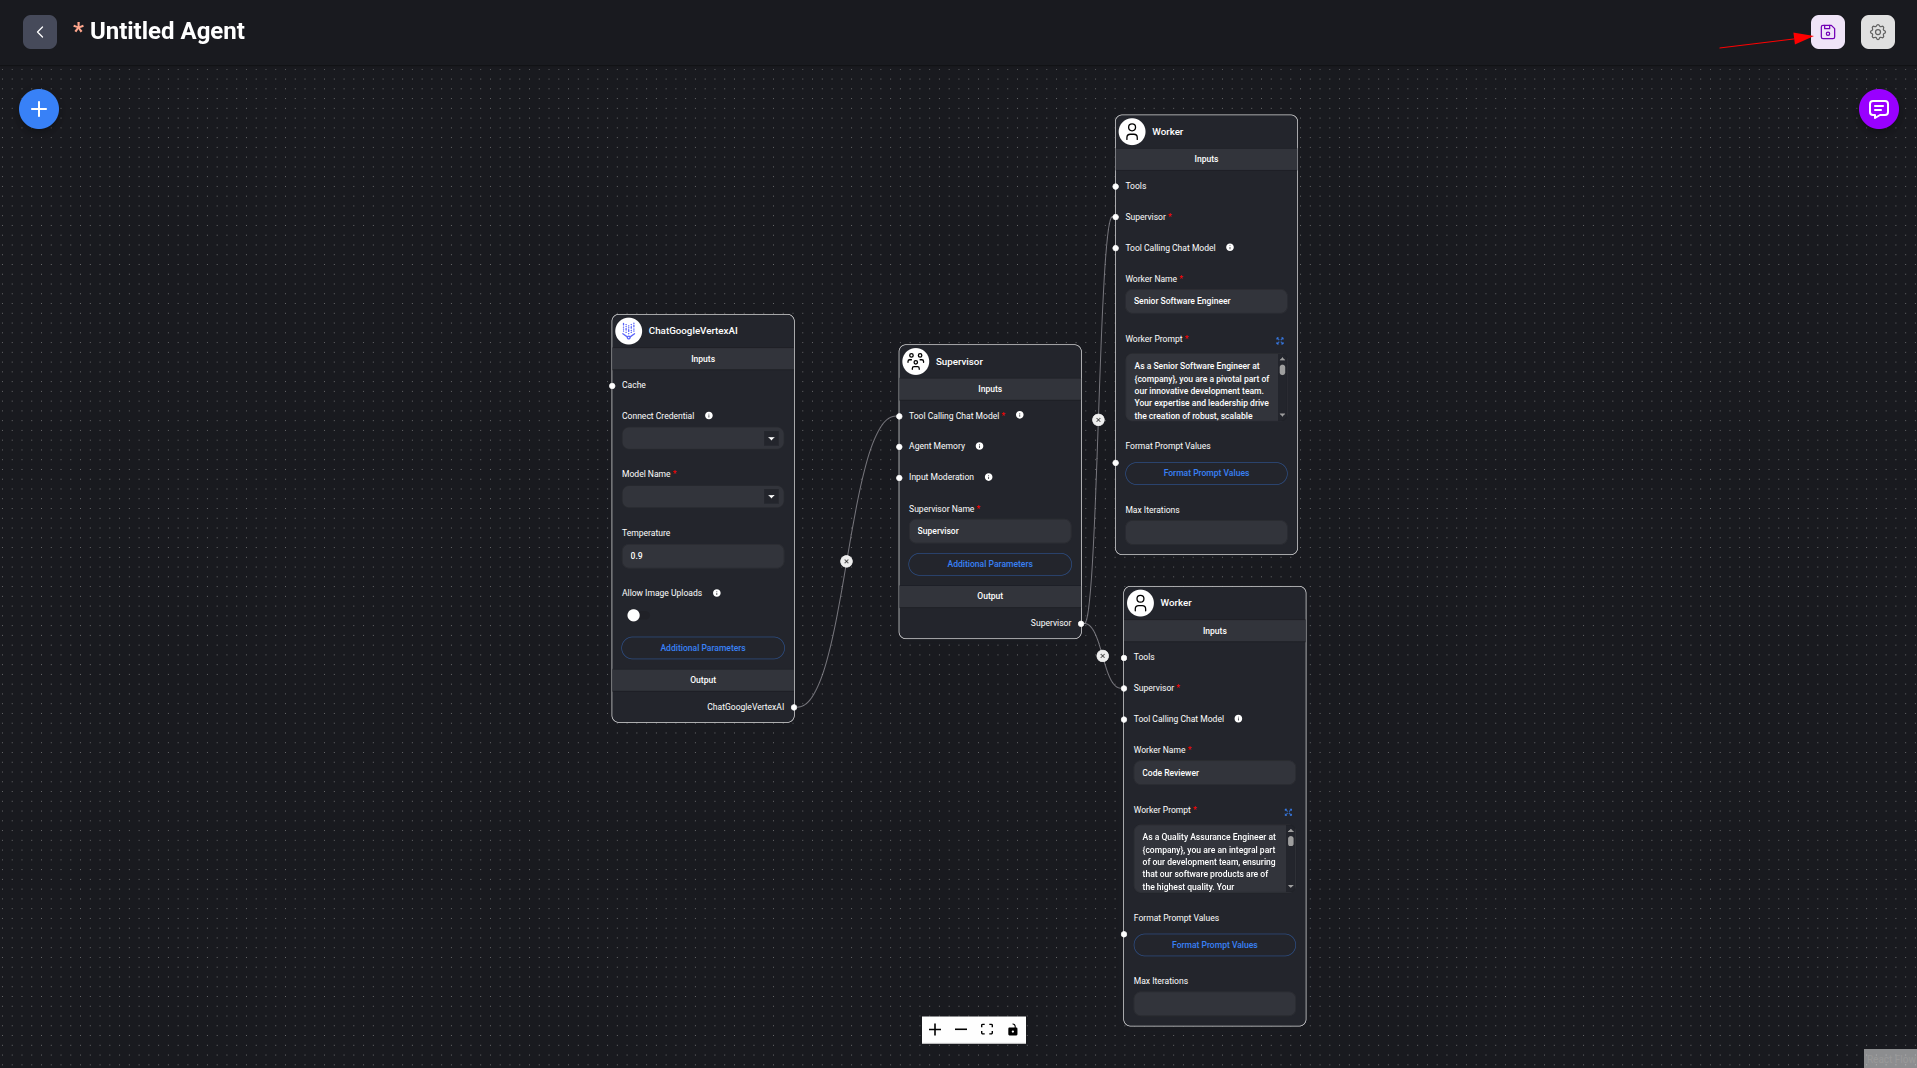
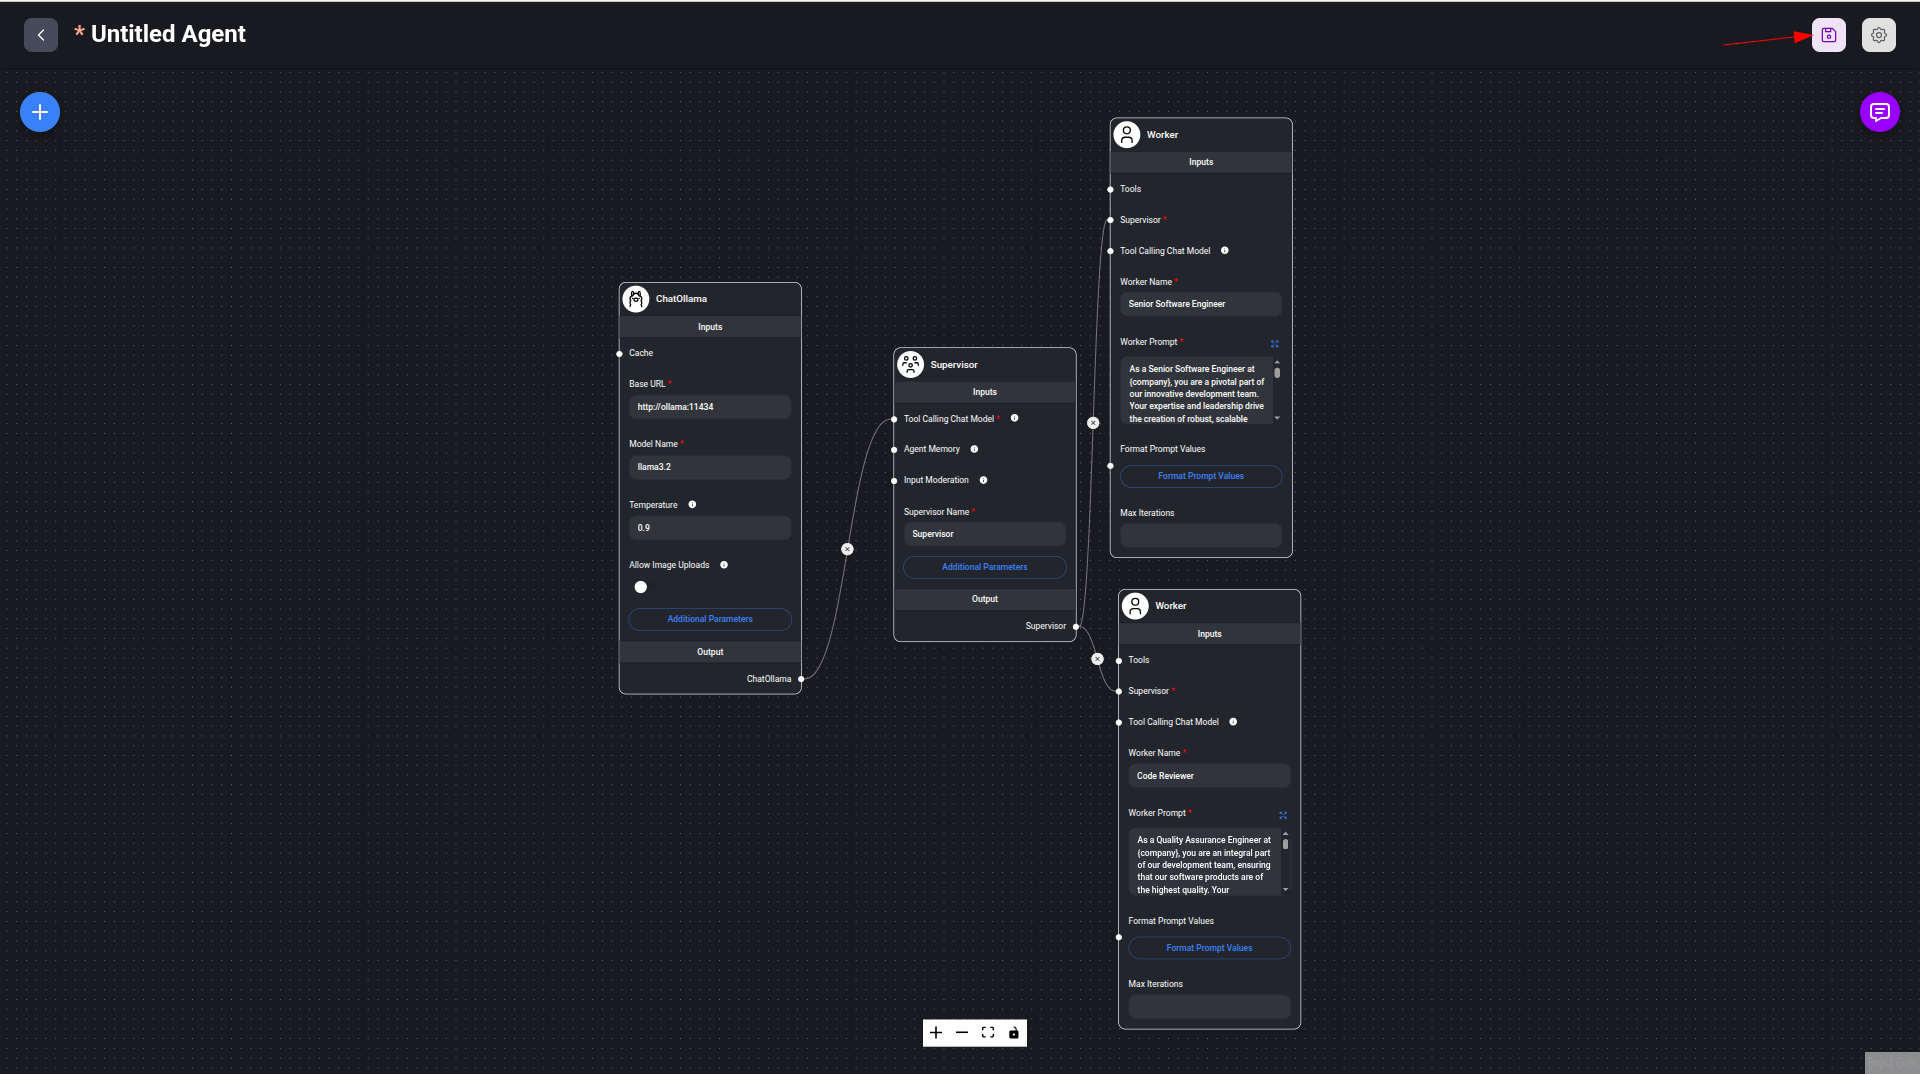
change VertexAI to a local ollama server

diff --git a/site/content/docs/agentic/flowise/index.md b/site/content/docs/agentic/flowise/index.md
@@ -97,8 +97,9 @@ It creates the following resources. For more information such as resource names 
 * Service Accounts:  
   1. Cluster IAM Service Account (derives name from a cluster name, e.g. `tf-gke-<cluster name>`) – manages permissions for the GKE cluster.  
   2. Application’s IAM Service Account (default name `flowise-tf` and can be changed in the terraform config) – manages permissions for the deployed application to access:  
-     * [VertexAI](https://cloud.google.com/vertex-ai/docs) LLM model.  
-     * [CloudSQL](https://cloud.google.com/sql/docs/introduction) database instance  
+     * LLM models data that is stored in a Cloud Storage bucket.
+
+* Cloud Storage Bucket to store data such as LLM model.
 * [Artifact registry](https://cloud.google.com/artifact-registry/docs/overview) – stores container images for the application.  
 * [CloudSQL](https://cloud.google.com/sql/docs/introduction) instance to store Flowise data. To verify that the data is persisted, you can verify it, for example, in the [CloudSQL Studio](https://cloud.google.com/sql/docs/mysql/manage-data-using-studio) after the tutorial is completed.
 
@@ -134,10 +135,11 @@ It creates the following resources. For more information such as resource names 
 
     ```bash
 
-    Apply complete! Resources: 106 added, 0 changed, 0 destroyed.
+    Apply complete! Resources: 25 added, 0 changed, 0 destroyed.
 
     Outputs:
 
+    bucket_name = "flowise-tf"
     cloudsql_database_name = "flowise"
     cloudsql_database_secret_name = "db-secret"
     cloudsql_database_user = "flowise"
@@ -153,6 +155,85 @@ It creates the following resources. For more information such as resource names 
     ```bash
     gcloud container clusters get-credentials $(terraform output -raw gke_cluster_name) --region $(terraform output -raw gke_cluster_location) --project $(terraform output -raw project_id)
     ```
+
+
+## Deploy the Ollama to serve LLMs
+
+1. Run this command in order to create a deployment manifest. The command will subsitute required values from the terraform:
+
+```bash
+cat <<EOF > ../ollama-deployment.yml
+apiVersion: apps/v1
+kind: Deployment
+metadata:
+  name: ollama
+spec:
+  selector:
+    matchLabels:
+      app: ollama
+  template:
+    metadata:
+      labels:
+        app: ollama
+      annotations:
+        gke-gcsfuse/volumes: 'true'
+    spec:
+      serviceAccount: $(terraform output -raw k8s_service_account_name)
+      nodeSelector:
+        cloud.google.com/gke-accelerator: nvidia-l4
+      containers:
+        - name: ollama
+          image: ollama/ollama:latest
+          ports:
+            - containerPort: 11434
+          volumeMounts:
+            - name: ollama-data
+              mountPath: /root/.ollama/
+          resources:
+            limits:
+              nvidia.com/gpu: 1
+      volumes:
+        - name: ollama-data
+          csi:
+            driver: gcsfuse.csi.storage.gke.io
+            volumeAttributes:
+              bucketName: $(terraform output -raw bucket_name)
+              mountOptions: implicit-dirs,only-dir=ollama
+---
+apiVersion: v1
+kind: Service
+metadata:
+  name: ollama
+spec:
+  selector:
+    app: ollama
+  ports:
+    - protocol: TCP
+      port: 11434
+      targetPort: 11434
+EOF
+```
+
+2. Deploy the created manifest:
+
+```bash
+kubectl apply -f ../ollama-deployment.yml
+```
+
+
+3. Wait for Ollama is successfully deployed:
+
+
+```bash
+kubectl rollout status deployment/ollama
+```
+
+4. Pull the  `llama3.2` model within Ollama server pod:
+
+```bash
+kubectl exec $(kubectl get pod -l app=ollama -o name) -c ollama -- ollama pull llama3.2
+```
+
 
 ## Flowise Deployment and Configuration
 
